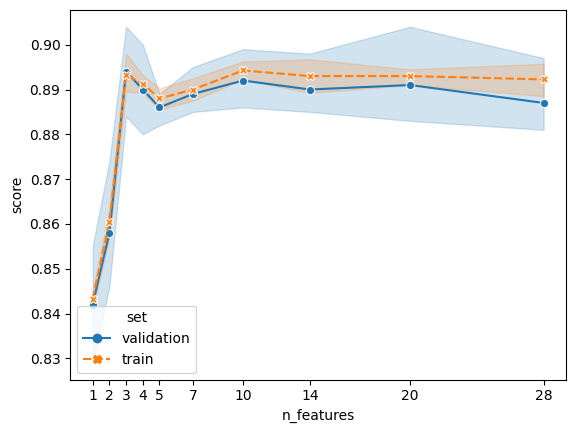
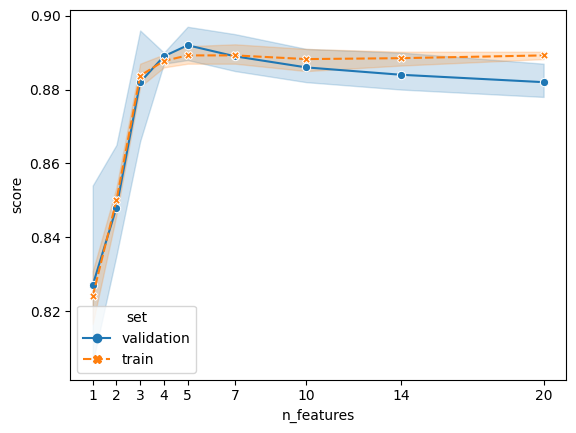
Update example usage in readme

diff --git a/docs/index.md b/docs/index.md
@@ -23,7 +23,6 @@ pip install felimination
 ## Usage
 
 ```python
-
 from felimination.rfe import PermutationImportanceRFECV
 from sklearn.linear_model import LogisticRegression
 from sklearn.datasets import make_classification
@@ -39,37 +38,29 @@ X, y = make_classification(
     random_state=42,
 )
 
-# Add random features at the end, so the first 2 features are
-# relevant and the remaining 8 features are random
-X_with_rand = np.hstack((X, np.random.random(size=(X.shape[0], 8))))
-
 selector = PermutationImportanceRFECV(LogisticRegression(), step=0.3)
 
-selector.fit(X_with_rand, y)
+selector.fit(X, y)
 
 selector.support_
 # array([False, False, False, False, False, False, False, False, False,
-#        False, False, False, False, True, False, False, False, False,
-#        False, False, False, False, False, False, False, False, False,
-#        False])
+#        False, False,  True, False, False, False, False, False, False,
+#        False, False])
 
 selector.ranking_
-# array([10,  3,  9, 10,  8,  9,  7,  7, 10,  6,  8,  2,  8,  1,  9, 10, 10,
-#         4,  5,  6,  9, 10,  9,  8, 10,  9,  7, 10])
-
+# array([9, 3, 8, 9, 7, 8, 5, 6, 9, 6, 8, 1, 9, 7, 8, 9, 9, 2, 4, 7])
 selector.plot()
 ```
-![example of plot](./assets/example_plot.png)
+![example of plot](./docs/assets/example_plot.png)
 
-It looks like `3` is a good number of features, we can set the number of features to select to 3 without need of retraining
+It looks like `5` is a good number of features, we can set the number of features to select to 5 without need of retraining
 
 ```python
-selector.set_n_features_to_select(3)
+selector.set_n_features_to_select(5)
 selector.support_
-# array([False,  True, False, False, False, False, False, False, False,
-#        False, False,  True, False,  True, False, False, False, False,
-#        False, False, False, False, False, False, False, False, False,
-#        False])
+# array([False,  True, False, False, False, False,  True, False, False,
+#        False, False,  True, False, False, False, False, False,  True,
+#         True, False])
 ```
 
 ## License

diff --git a/README.md b/README.md
@@ -29,7 +29,6 @@ pip install felimination
 ## Usage
 
 ```python
-
 from felimination.rfe import PermutationImportanceRFECV
 from sklearn.linear_model import LogisticRegression
 from sklearn.datasets import make_classification
@@ -45,37 +44,29 @@ X, y = make_classification(
     random_state=42,
 )
 
-# Add random features at the end, so the first 2 features are
-# relevant and the remaining 8 features are random
-X_with_rand = np.hstack((X, np.random.random(size=(X.shape[0], 8))))
-
 selector = PermutationImportanceRFECV(LogisticRegression(), step=0.3)
 
-selector.fit(X_with_rand, y)
+selector.fit(X, y)
 
 selector.support_
 # array([False, False, False, False, False, False, False, False, False,
-#        False, False, False, False, True, False, False, False, False,
-#        False, False, False, False, False, False, False, False, False,
-#        False])
+#        False, False,  True, False, False, False, False, False, False,
+#        False, False])
 
 selector.ranking_
-# array([10,  3,  9, 10,  8,  9,  7,  7, 10,  6,  8,  2,  8,  1,  9, 10, 10,
-#         4,  5,  6,  9, 10,  9,  8, 10,  9,  7, 10])
-
+# array([9, 3, 8, 9, 7, 8, 5, 6, 9, 6, 8, 1, 9, 7, 8, 9, 9, 2, 4, 7])
 selector.plot()
 ```
 ![example of plot](./docs/assets/example_plot.png)
 
-It looks like `3` is a good number of features, we can set the number of features to select to 3 without need of retraining
+It looks like `5` is a good number of features, we can set the number of features to select to 5 without need of retraining
 
 ```python
-selector.set_n_features_to_select(3)
+selector.set_n_features_to_select(5)
 selector.support_
-# array([False,  True, False, False, False, False, False, False, False,
-#        False, False,  True, False,  True, False, False, False, False,
-#        False, False, False, False, False, False, False, False, False,
-#        False])
+# array([False,  True, False, False, False, False,  True, False, False,
+#        False, False,  True, False, False, False, False, False,  True,
+#         True, False])
 ```
 
 ## License
